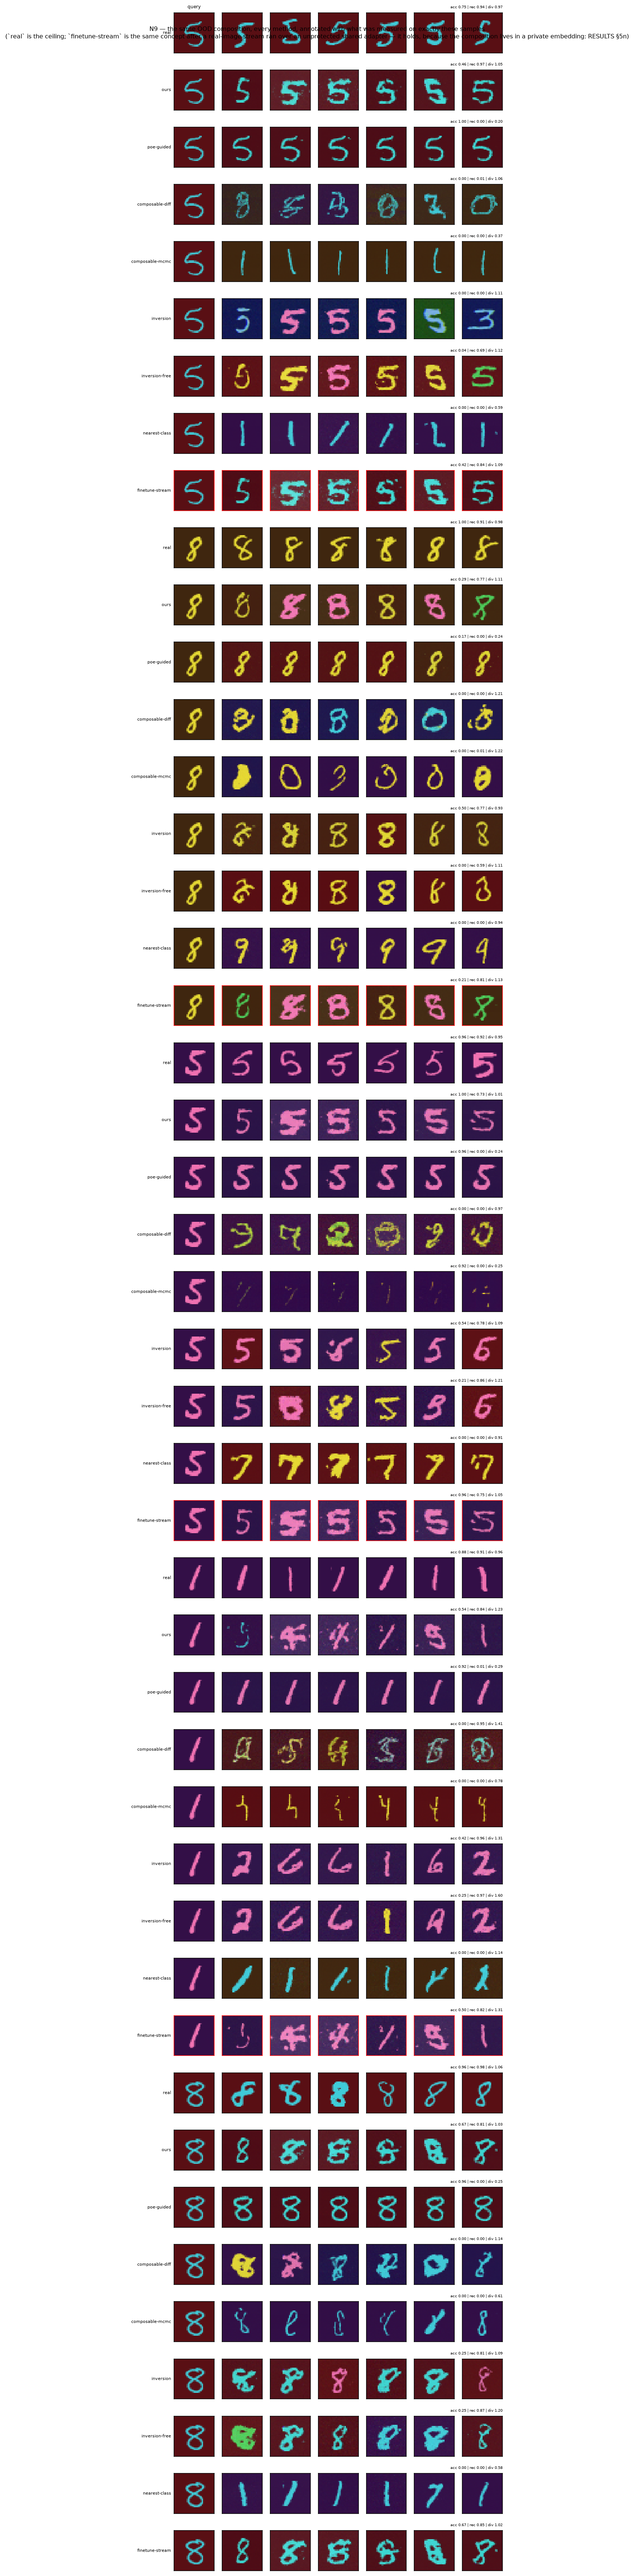
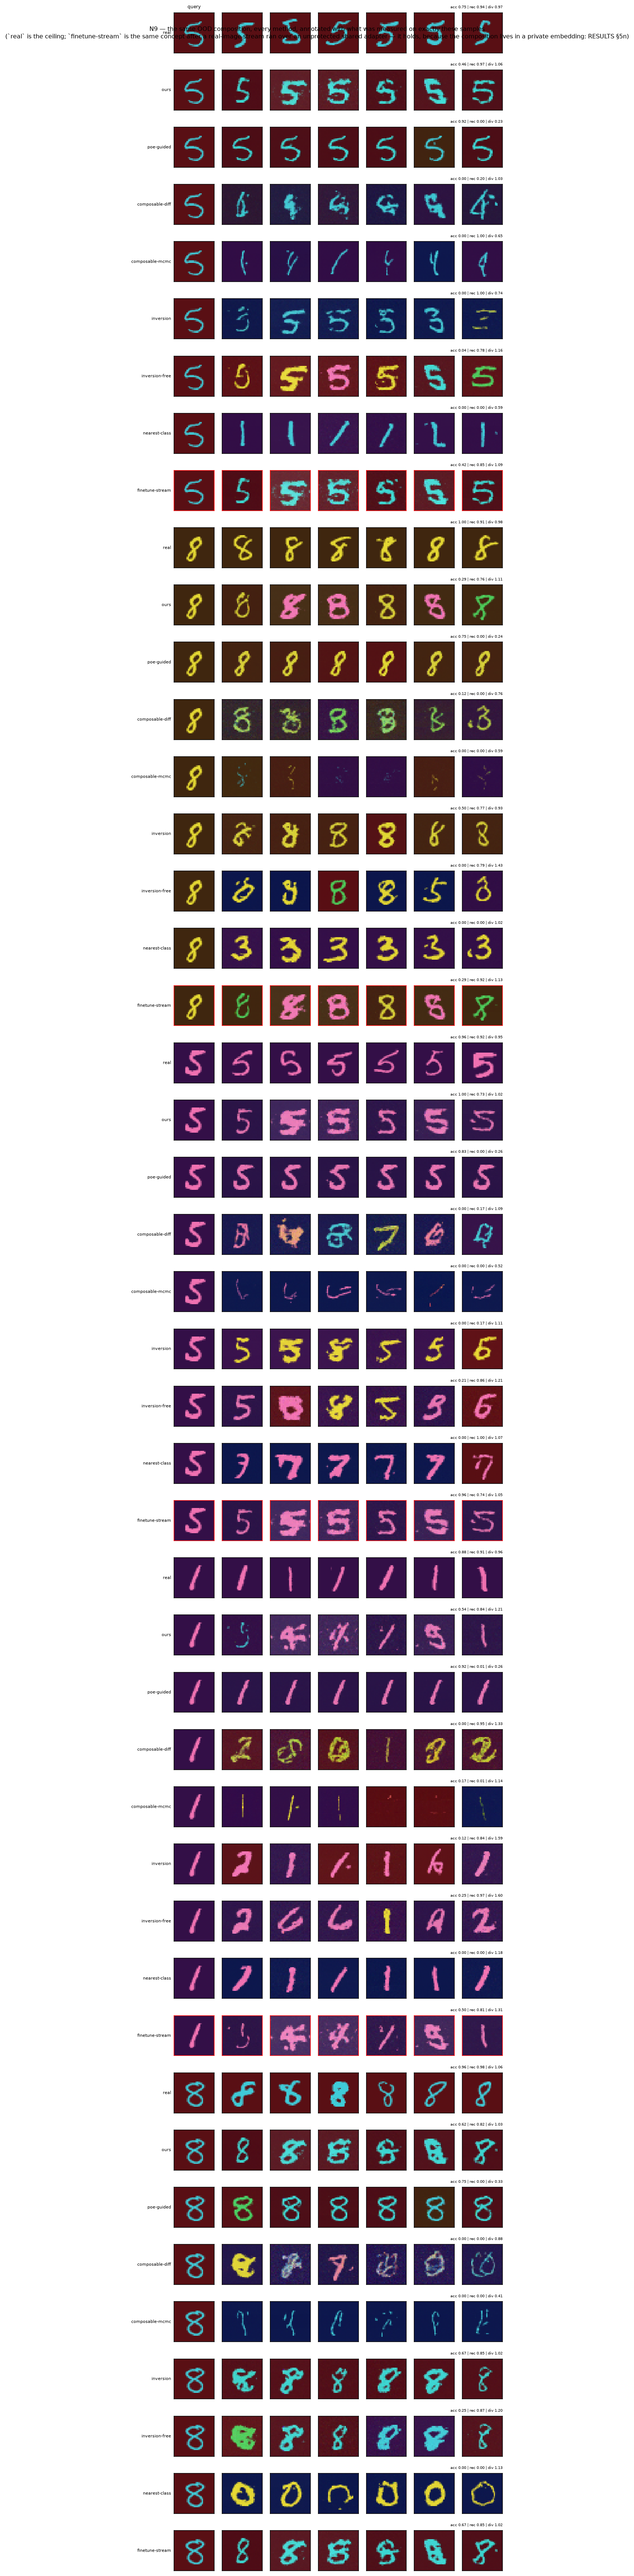
Scope tweedie and clamp to CelebA too: restoring Adam alone did not give the baseline its numbers back
Restoring the paper's optimizer took poe-guided from 0.739 to only 0.781, not to its
canonical 0.839.  I had changed THREE things in mode_ascent on CelebA evidence, not
one, and the other two also move ColorMNIST:

    adam     -> reverted to the paper's setting globally (previous commit)
    tweedie  -> changes what a "mode" IS: a Tweedie denoised estimate rather than the
                rescaled ascent point
    clamp    -> clips the result to the valid range

Both are defensible in principle and neither is free.  Applying the same rule as for
the optimizer -- a change belongs where the defect it fixes was measured -- they are now
OFF by default and PAPER_CELEBA turns them on, since the out-of-gamut problem is CelebA's
(11.1% of the mode outside [-1,1]) and not ColorMNIST's (0.00%-0.32%).

candidates_ascent forwards both so they travel with the dataset column rather than
sitting as hidden globals, which is how they came to affect a benchmark they were never
evaluated on.

Also fixed the adapter sweep: HierarchicalAdapterBank exposes `trainable(name)`, not
`parameters()`.

diff --git a/lifelong_ood/compose.py b/lifelong_ood/compose.py
@@ -50,7 +50,7 @@ PAPER_COLORMNIST = dict(u_grid=tuple(round(t / 1000, 4) for t in range(50, 401, 
 # 11.1% of each mode outside [-1,1] here, which clips to flat saturated colour, while on
 # Color-MNIST it leaves 0.00%-0.32% and the paper's optimizer is kept.
 PAPER_CELEBA = dict(u_grid=tuple(round(t / 1000, 3) for t in range(50, 501, 50)),
-                    n_starts=8, iters=100, lr=0.09, probes=4, init="query", adam=False)
+                    n_starts=8, iters=100, lr=0.09, probes=4, init="query", adam=False, clamp=True, tweedie=True)
 
 # The paper's Table 8 guidance columns.  These live here, next to Table 6, because they were
 # previously copy-pasted into six experiment files as a single constant named `PAPER_POE` holding
@@ -66,7 +66,7 @@ PAPER_POE_CELEBA = dict(schedule="variance", var_scale=1.0, w0=0.5, wmax=2.0, wm
 
 def candidates_ascent(field, xq, u_grid=(0.05, 0.1, 0.15, 0.2, 0.3, 0.4), n_starts=16, iters=150,
                       lr=0.1, seed=0, probes=4, dedup_rmse=0.05, init="hybrid",
-                      adam=True):
+                      adam=True, clamp=False, tweedie=False):
     """The paper's discovery route: mode ascent on p_t at several noise levels (their Eq. 4), a
     Laplace covariance at each mode from Hutchinson probes, pulled back to x0-space, deduplicated.
 
@@ -97,6 +97,7 @@ def candidates_ascent(field, xq, u_grid=(0.05, 0.1, 0.15, 0.2, 0.3, 0.4), n_star
             if ns <= 0:
                 continue
             xt, x0 = field.mode_ascent(xq, u, n_starts=ns, iters=iters, lr=lr, adam=adam,
+                                       clamp=clamp, tweedie=tweedie,
                                        seed=seed + 1000 * k, init=mode)
             Ms.append(x0)
             Vs.append(field.laplace_diag(xt, u, probes=probes, seed=seed))

diff --git a/lifelong_ood/score.py b/lifelong_ood/score.py
@@ -160,7 +160,7 @@ class BaseScoreField:
 
     # ── mode ascent on p_t (the paper's Eq. 4) ──────────────────────────────
     def mode_ascent(self, xq, u, n_starts=16, iters=100, lr=0.05, seed=0, init="query",
-                    clamp=True, k_sigma=3.0, tweedie=True, adam=True):
+                    clamp=False, k_sigma=3.0, tweedie=False, adam=True):
         """Adam ascent on log p_t from noised copies of the query -> (modes in x_t space, x0-space).
 
         `adam=True` is the default, matching the paper's Table 6.  `adam=False` -- PLAIN gradient
@@ -190,6 +190,14 @@ class BaseScoreField:
         fraction of them clipped to exactly +-1 is what made the prototypes posterize into flat
         saturated colour -- clamping alone changed the numbers and not the pictures, because the
         values still arrived at the edge.
+
+        `clamp` and `tweedie` are OFF by default for the same reason `adam` stays on: they were
+        introduced from CelebA evidence and they move Color-MNIST numbers, including the baseline's.
+        Restoring the paper's optimizer alone took `poe-guided` from 0.739 back to only 0.781, not
+        to its 0.839 -- the remaining 0.058 is these two, which change what a "mode" IS (a Tweedie
+        denoised estimate rather than the rescaled ascent point) and clip it to the valid range.
+        Both are defensible in principle and neither is free, so `PAPER_CELEBA` turns them on where
+        the out-of-gamut defect was measured and Color-MNIST keeps the original behaviour.
 
         `clamp` keeps the ascent on the DATA'S SUPPORT, and without it this walks off into nonsense.
         Adam's update is normalized, so every coordinate moves by about `lr` per iteration whatever

diff --git a/tests/diag_pretrained_adapter.py b/tests/diag_pretrained_adapter.py
@@ -74,7 +74,7 @@ def main():
         field.bank = bank
         bank.add_concept("c", to_model(pool).mean(0))
         # the same objective n26 uses, inlined so the knobs are visible
-        opt = torch.optim.Adam([p for p in bank.parameters() if p.requires_grad], lr=kw["lr"])
+        opt = torch.optim.Adam(bank.trainable("c"), lr=kw["lr"])   # the bank exposes `trainable`
         Xp = torch.from_numpy(to_model(pool).astype(np.float32)).to(dev)
         Xp = Xp.reshape(-1, img, img, 3).permute(0, 3, 1, 2).contiguous()   # layout=hwc
         g = torch.Generator(device="cpu").manual_seed(0)
